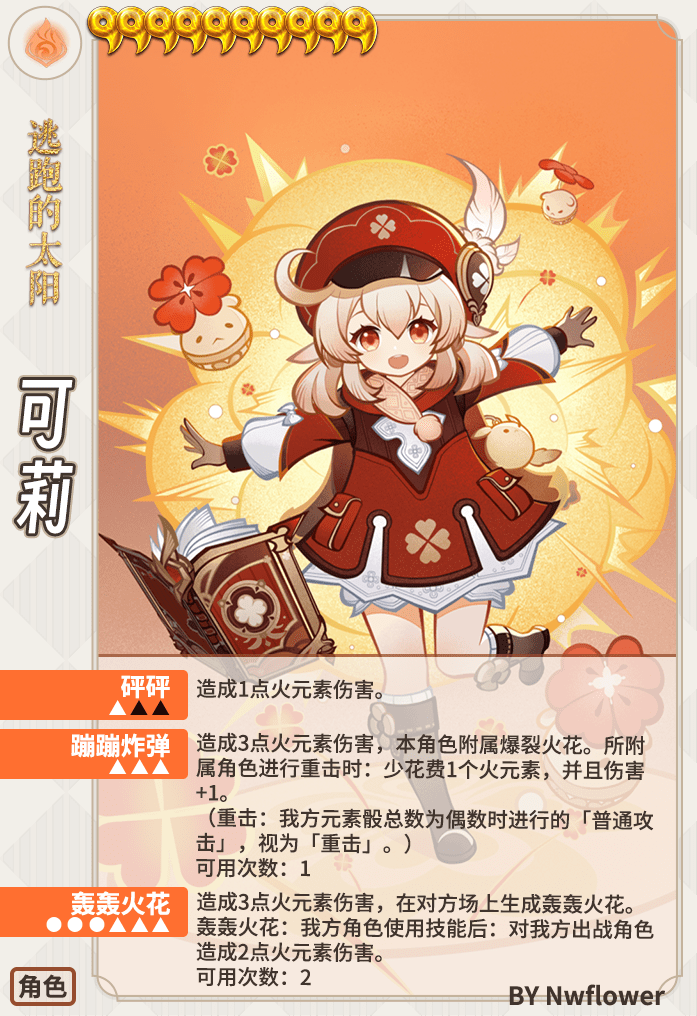
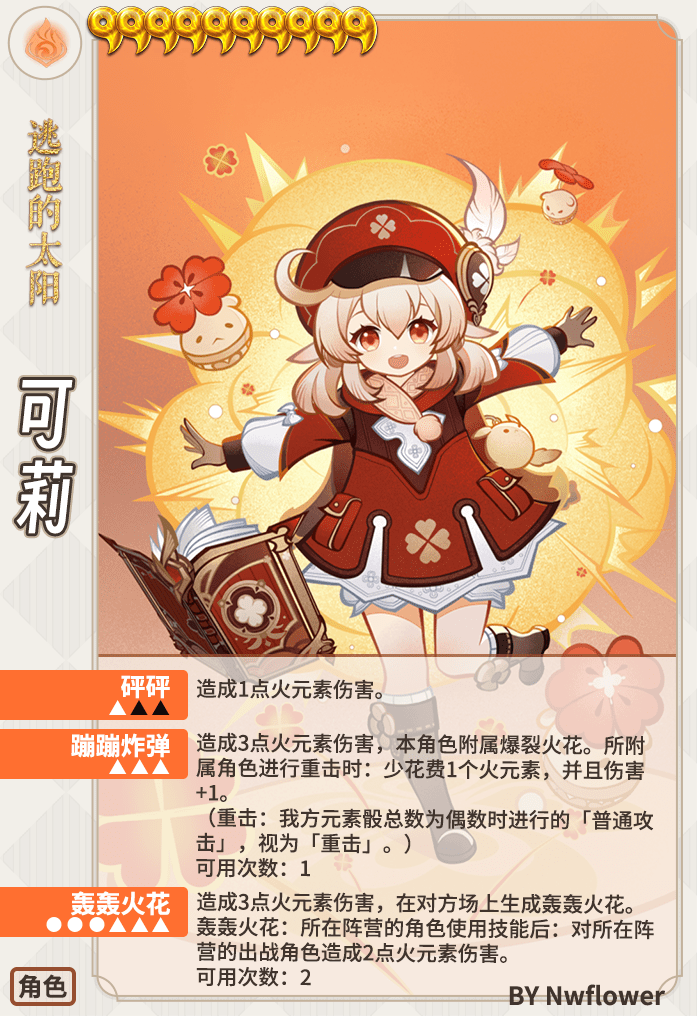
:speech_balloon:  优化了在 3.6 版本中的部分文案更新描述

Changed region(s): [[0.2712, 0.8848, 0.934, 0.9459]]

diff --git a/README.md b/README.md
@@ -7,7 +7,7 @@ Genshin-Atlas是一个主要由[`米游社@听语惊花`](https://bbs.mihoyo.com
 - [x] 武器图鉴（更新至3.7）
 - [x] 角色材料（更新至3.7）
 - [x] 七圣召唤卡牌（更新至3.6）
-- [x] 区域特产（更新至3.5）
+- [x] 区域特产（更新至3.6）
 - [x] 圣遗物图鉴（更新至3.6）
 - [x] 原魔图鉴（更新至3.6，暂由[Csxylic](https://www.miyoushe.com/ys/accountCenter/postList?id=258229537)提供支持。）
 - [x] 食物图鉴（更新至3.6）
